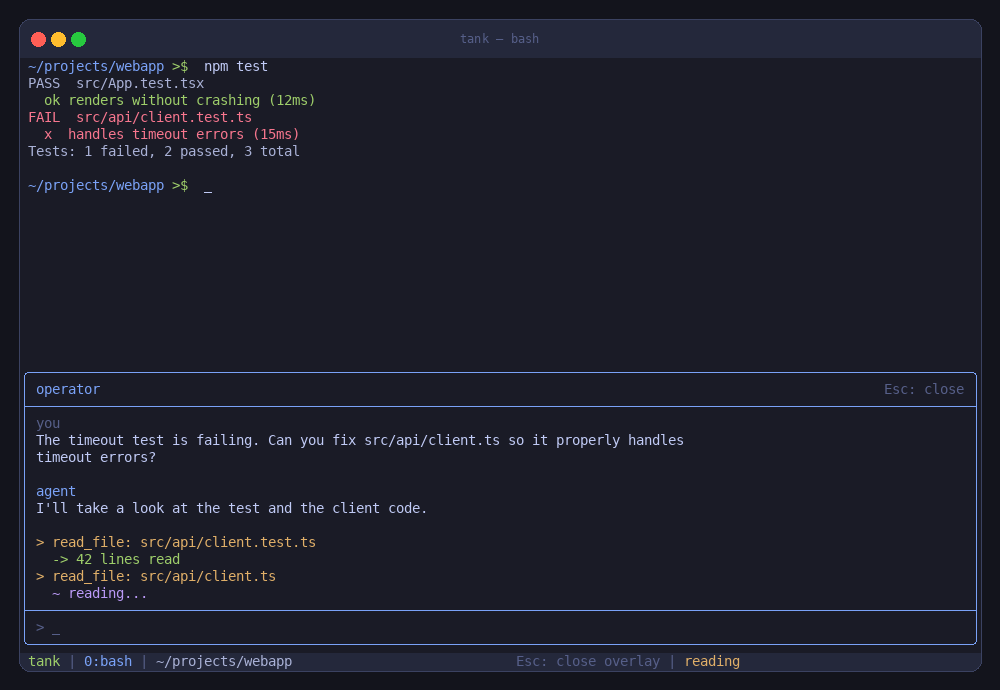
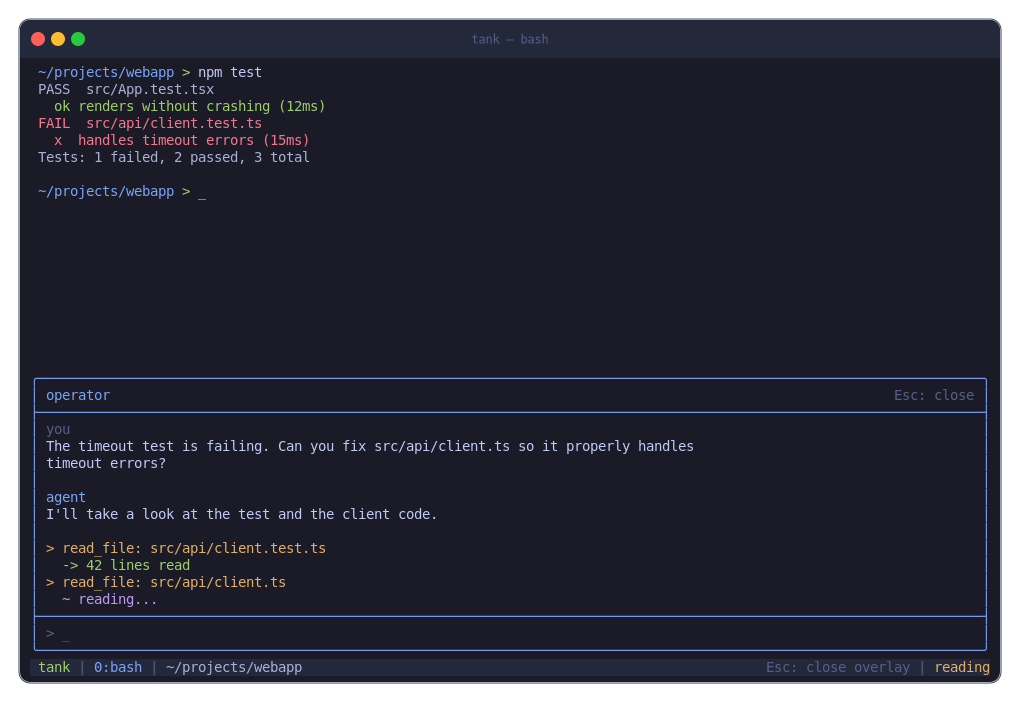
docs: update concept images and use permanent links in README
- Use transparent background for PNG rendering (remove bodyRGB fill)
- Update README image URLs to raw.githubusercontent.com permanent links
- Reference tank-render-concepts (Haskell) instead of render-concepts.py
- Regenerate all 9 concept images with latest rendering fixes

Changed region(s): [[0.0, 0.0, 1.0, 1.0]]

diff --git a/README.md b/README.md
@@ -13,48 +13,49 @@ the crew, and runs the console.
 
 ## Concept
 
-<!-- concept images generated by docs-site/docs/assets/concepts/render-concepts.py -->
+<!-- concept images generated by tank-render-concepts (tank-layout package) -->
+<!-- regenerate: nix build .#concept-images -->
 
 ### Idle terminal
 
-![Idle terminal](docs-site/docs/assets/concepts/01-idle.png)
+![Idle terminal](https://raw.githubusercontent.com/jhhuh/tank/master/docs-site/docs/assets/concepts/01-idle.png)
 
 ### Per-pane coding agent (operator)
 
-![Agent overlay](docs-site/docs/assets/concepts/02-overlay.png)
+![Agent overlay](https://raw.githubusercontent.com/jhhuh/tank/master/docs-site/docs/assets/concepts/02-overlay.png)
 
 The operator reads files, executes commands, and writes fixes — all inside the
 overlay:
 
-![Agent tool execution](docs-site/docs/assets/concepts/03-tool-exec.png)
+![Agent tool execution](https://raw.githubusercontent.com/jhhuh/tank/master/docs-site/docs/assets/concepts/03-tool-exec.png)
 
 ### Multi-pane layout
 
-![Multi-pane split](docs-site/docs/assets/concepts/04-multi-pane.png)
+![Multi-pane split](https://raw.githubusercontent.com/jhhuh/tank/master/docs-site/docs/assets/concepts/04-multi-pane.png)
 
 Each pane gets its own independent operator:
 
-![Multi-pane agents](docs-site/docs/assets/concepts/05-multi-agent.png)
+![Multi-pane agents](https://raw.githubusercontent.com/jhhuh/tank/master/docs-site/docs/assets/concepts/05-multi-agent.png)
 
 ### Command palette
 
-![Command palette](docs-site/docs/assets/concepts/06-windows.png)
+![Command palette](https://raw.githubusercontent.com/jhhuh/tank/master/docs-site/docs/assets/concepts/06-windows.png)
 
 ### Per-project services
 
 Manage project daemons via Procfile:
 
-![Services overlay](docs-site/docs/assets/concepts/07-services.png)
+![Services overlay](https://raw.githubusercontent.com/jhhuh/tank/master/docs-site/docs/assets/concepts/07-services.png)
 
 Live daemon logs with tree view:
 
-![Services logs](docs-site/docs/assets/concepts/08-services-logs.png)
+![Services logs](https://raw.githubusercontent.com/jhhuh/tank/master/docs-site/docs/assets/concepts/08-services-logs.png)
 
 ### Session persistence
 
 Detach and reattach — sessions survive disconnects:
 
-![Detach and reattach](docs-site/docs/assets/concepts/09-detach.png)
+![Detach and reattach](https://raw.githubusercontent.com/jhhuh/tank/master/docs-site/docs/assets/concepts/09-detach.png)
 
 ## Features (MVP)
 

diff --git a/docs-site/docs/index.md b/docs-site/docs/index.md
@@ -27,9 +27,12 @@ capability among many. Tank manages developer workspaces:
 
 ## Concept
 
-These mockups show how Tank will look. They are generated from
-[render-concepts.py](https://github.com/jhhuh/tank/blob/master/docs-site/docs/assets/concepts/render-concepts.py)
+These mockups show how Tank will look. They are generated by the
+`tank-render-concepts` binary from the
+[`tank-layout`](https://github.com/jhhuh/tank/tree/master/tank-layout) package
 and reflect the current design direction — not a finished product.
+
+To regenerate: `nix build .#concept-images`
 
 ### Idle terminal
 

diff --git a/docs-site/docs/concepts.md b/docs-site/docs/concepts.md
@@ -3,8 +3,8 @@
 !!! warning "Work in Progress"
 
     These are concept mockups showing how Tank will look. They are generated
-    programmatically from
-    [`render-concepts.py`](https://github.com/jhhuh/tank/blob/master/docs-site/docs/assets/concepts/render-concepts.py)
+    by the `tank-render-concepts` binary from the
+    [`tank-layout`](https://github.com/jhhuh/tank/tree/master/tank-layout) package
     and reflect the current design direction — not a finished product.
 
     To regenerate: `nix build .#concept-images`
